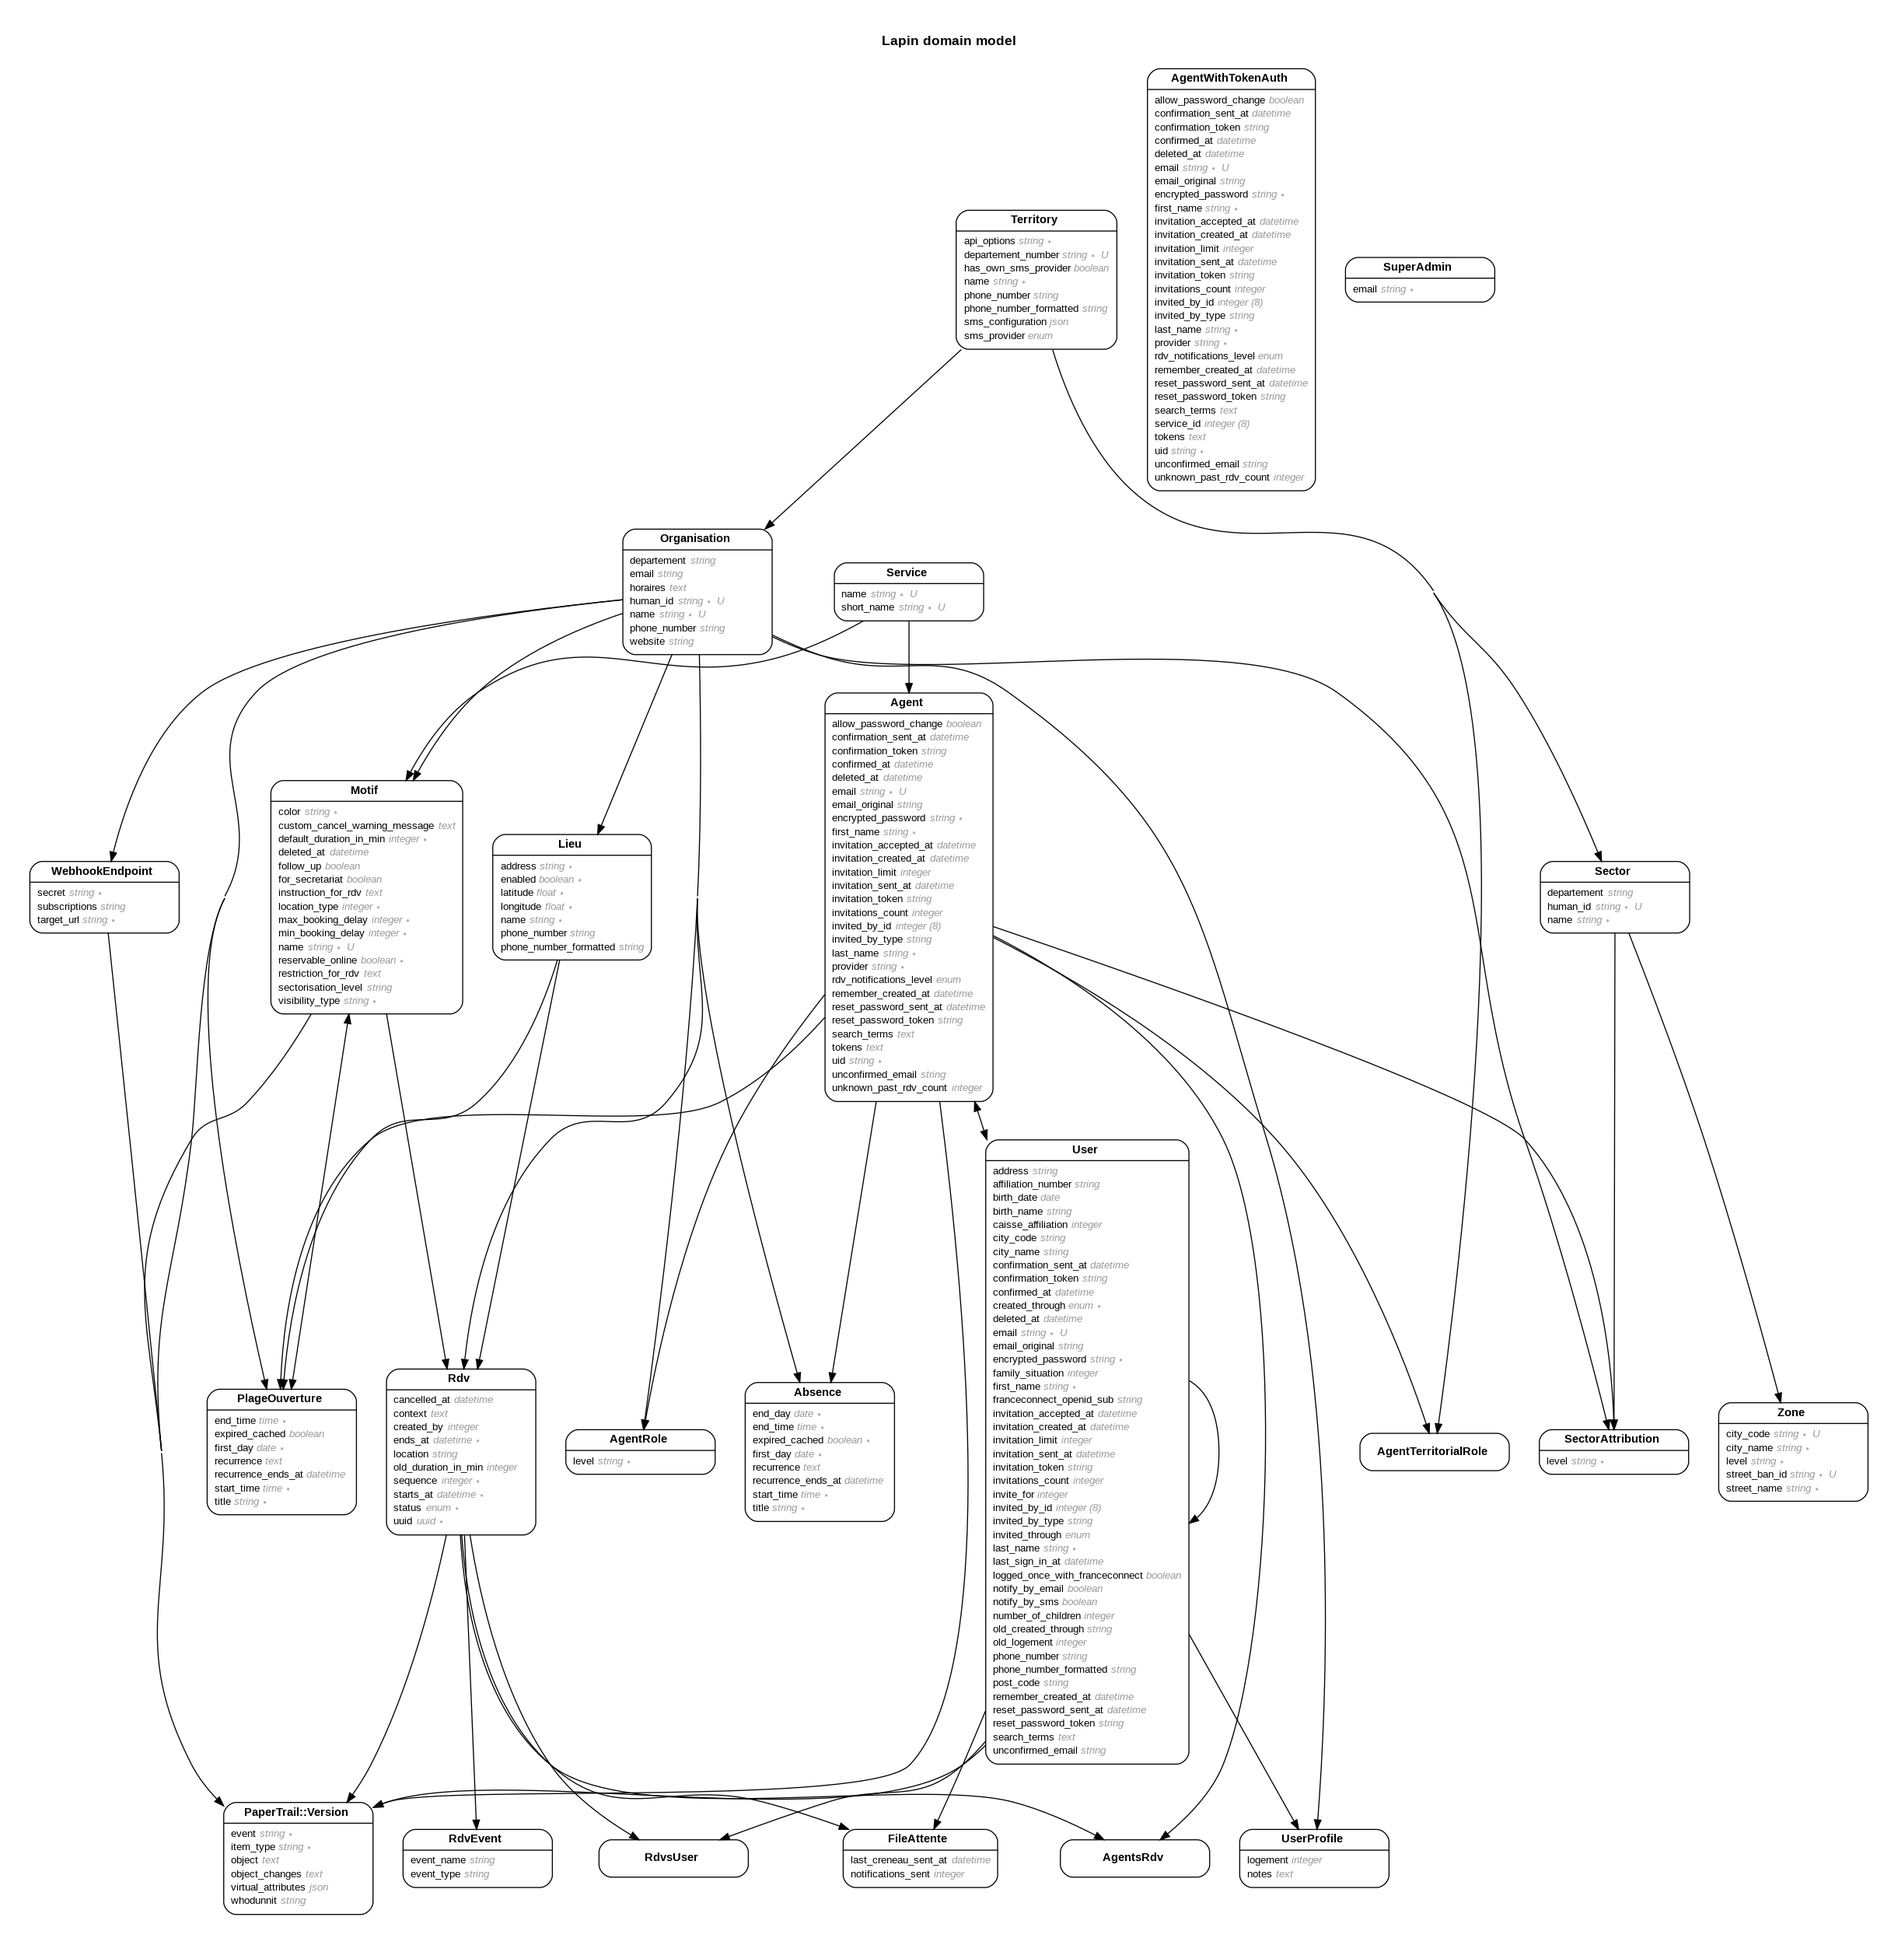
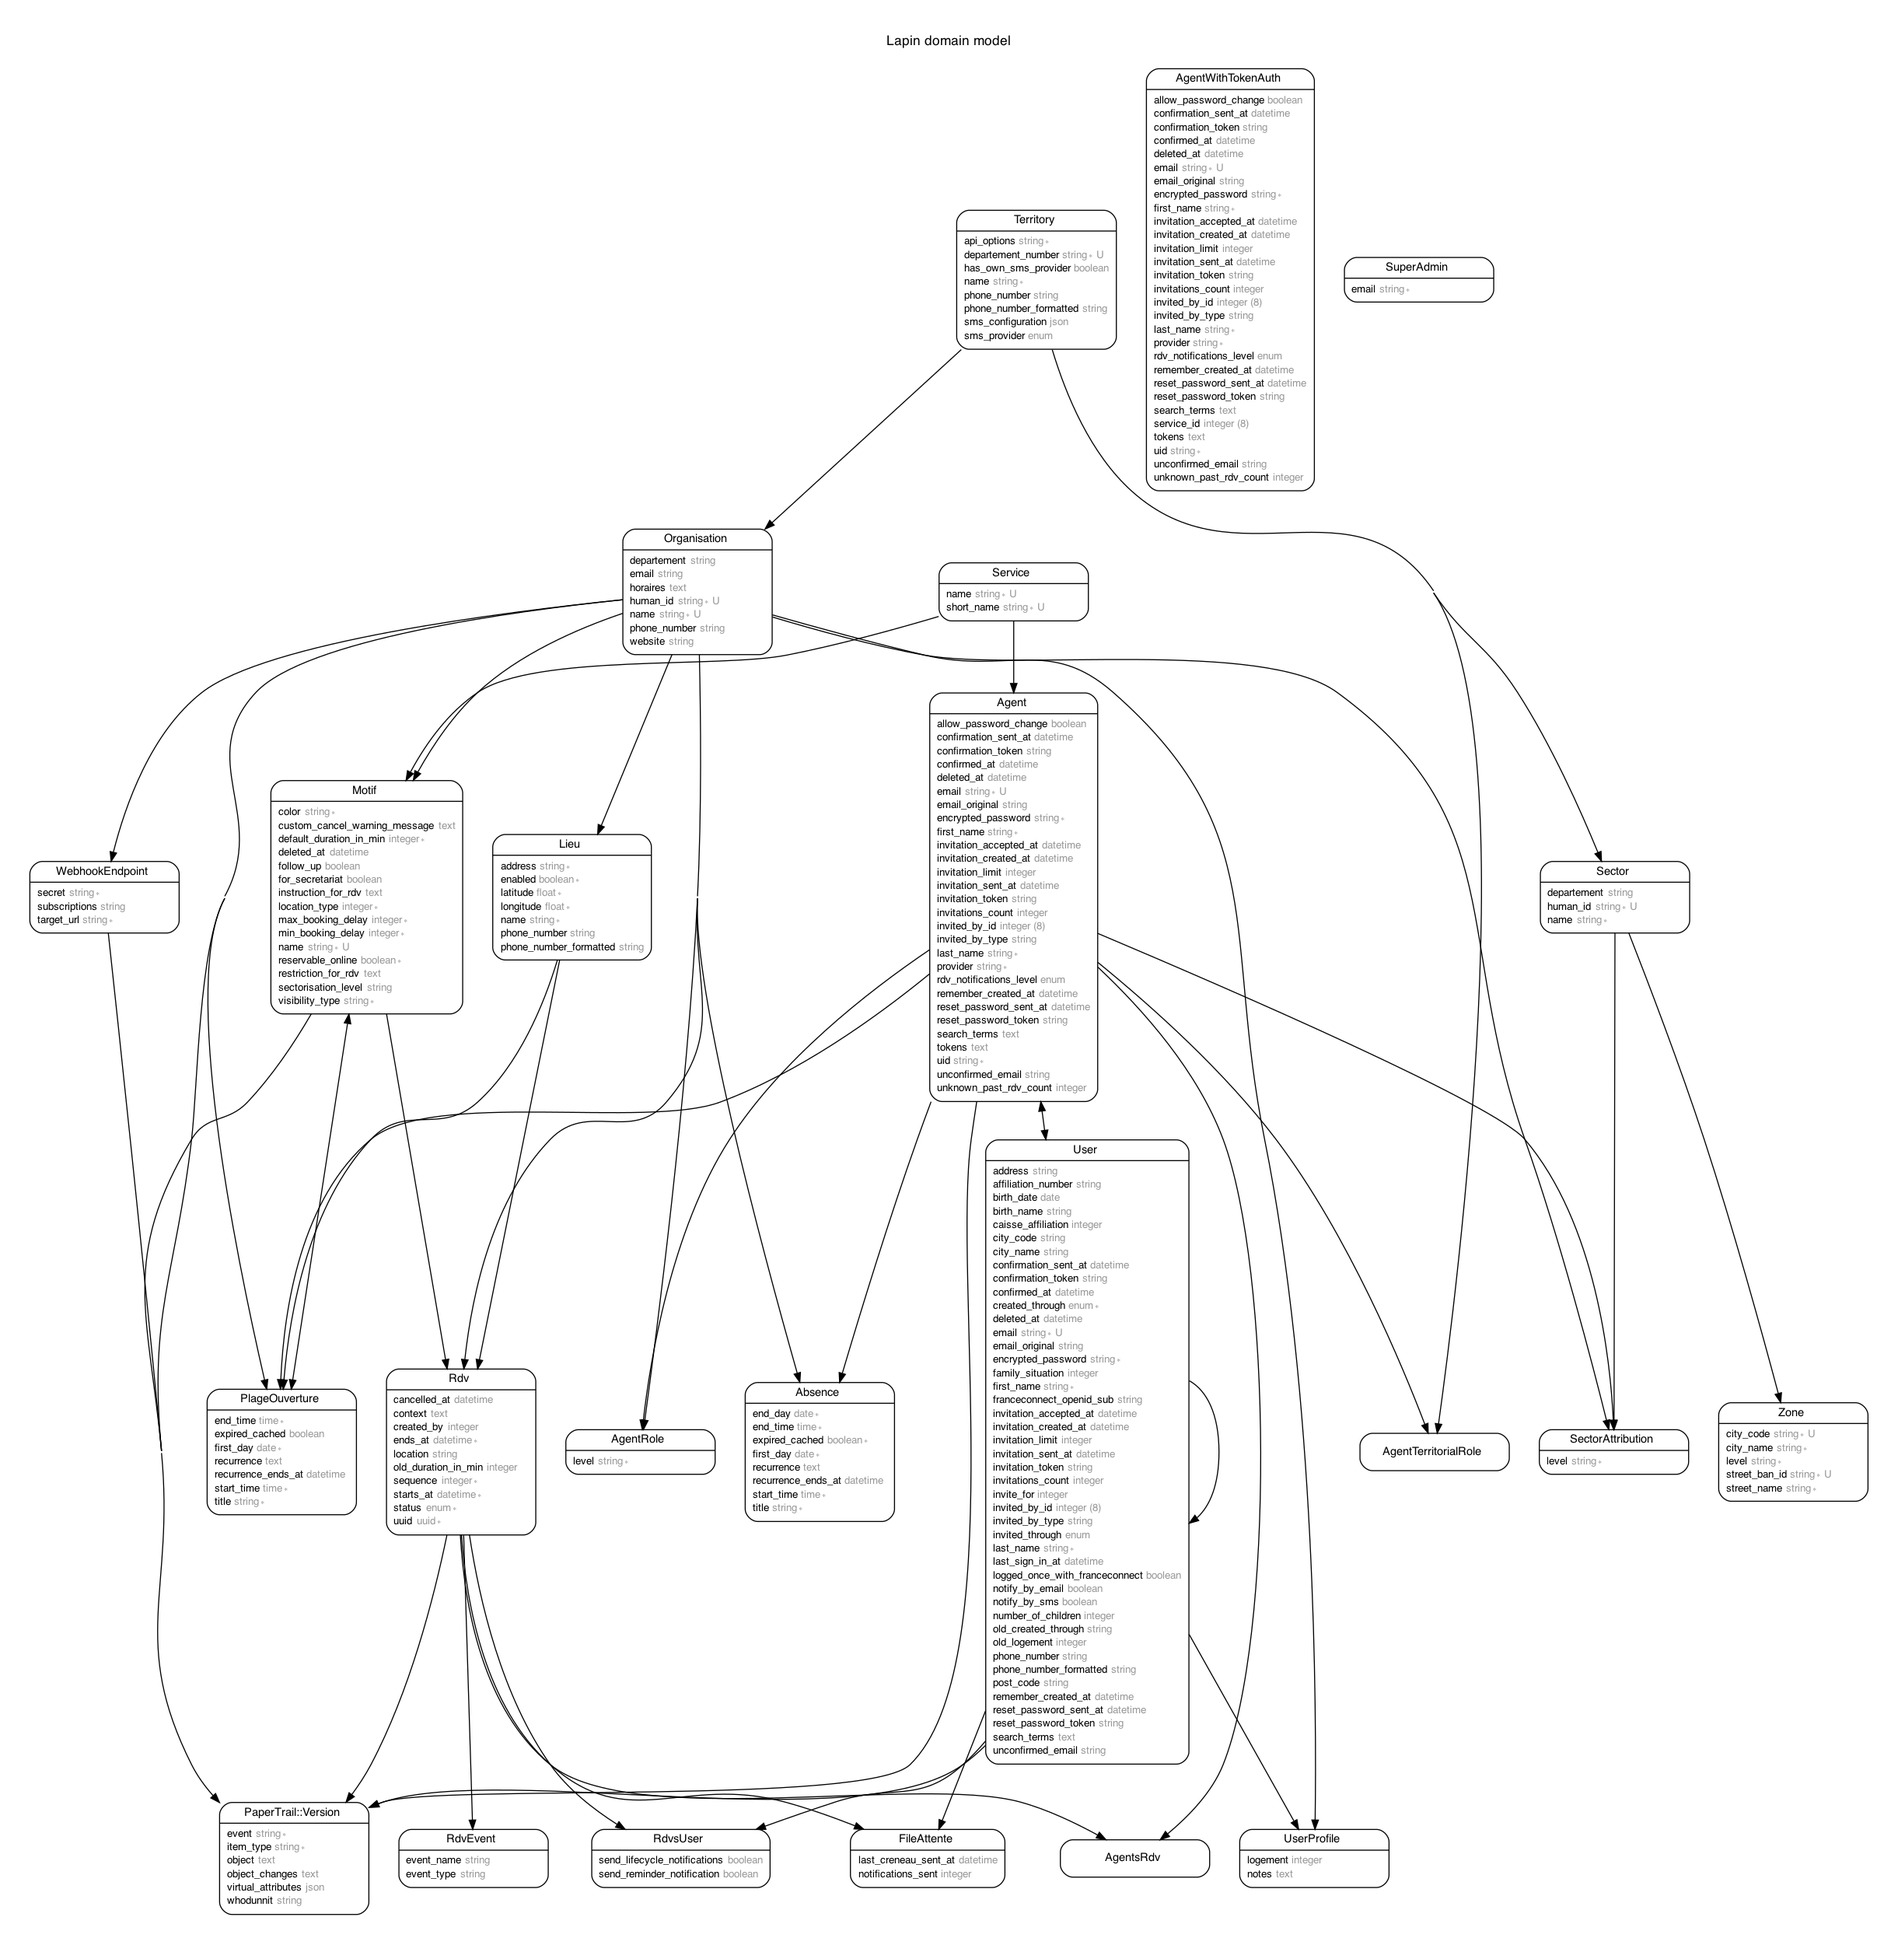
Add notification flags to RdvsUsers

diff --git a/db/migrate/20211216141613_add_rdvs_users_notifications_flags.rb b/db/migrate/20211216141613_add_rdvs_users_notifications_flags.rb
@@ -1,0 +1,23 @@
+# frozen_string_literal: true
+
+class AddRdvsUsersNotificationsFlags < ActiveRecord::Migration[6.0]
+  def change
+    add_column :rdvs_users, :send_lifecycle_notifications, :boolean
+    add_column :rdvs_users, :send_reminder_notification, :boolean
+
+    up_only do
+      notified_motifs = Motif.where(visibility_type: "visible_and_notified")
+      # rubocop:disable Rails/SkipsModelValidations
+      RdvsUser.joins(:rdv)
+        .where(rdvs: { motif_id: notified_motifs })
+        .update_all(send_lifecycle_notifications: true, send_reminder_notification: true)
+      RdvsUser.joins(:rdv)
+        .where.not(rdvs: { motif_id: notified_motifs })
+        .update_all(send_lifecycle_notifications: false, send_reminder_notification: false)
+      # rubocop:enable Rails/SkipsModelValidations
+    end
+
+    change_column_null :rdvs_users, :send_lifecycle_notifications, false
+    change_column_null :rdvs_users, :send_reminder_notification, false
+  end
+end

diff --git a/db/schema.rb b/db/schema.rb
@@ -10,7 +10,7 @@
 #
 # It's strongly recommended that you check this file into your version control system.
 
-ActiveRecord::Schema.define(version: 2021_12_13_105723) do
+ActiveRecord::Schema.define(version: 2021_12_16_141613) do
 
   # These are extensions that must be enabled in order to support this database
   enable_extension "plpgsql"
@@ -344,6 +344,8 @@ ActiveRecord::Schema.define(version: 2021_12_13_105723) do
   create_table "rdvs_users", force: :cascade do |t|
     t.bigint "rdv_id"
     t.bigint "user_id"
+    t.boolean "send_lifecycle_notifications", null: false
+    t.boolean "send_reminder_notification", null: false
     t.index ["rdv_id"], name: "index_rdvs_users_on_rdv_id"
     t.index ["user_id"], name: "index_rdvs_users_on_user_id"
   end

diff --git a/db/seeds.rb b/db/seeds.rb
@@ -573,7 +573,7 @@ results = Rdv.insert_all!(rdv_attributes, returning: "id") # [{"id"=>1}, {"id"=>
 rdv_ids = results.flat_map(&:values) # [1, 2, ...]
 agent_rdv_attributes = rdv_ids.map { |id| { agent_id: agent_org_paris_nord_pmi_martine.id, rdv_id: id } }
 AgentsRdv.insert_all!(agent_rdv_attributes)
-rdv_user_attributes = rdv_ids.map { |id| { user_id: user_org_paris_nord_josephine.id, rdv_id: id } }
+rdv_user_attributes = rdv_ids.map { |id| { user_id: user_org_paris_nord_josephine.id, rdv_id: id, send_lifecycle_notifications: true, send_reminder_notification: true } }
 RdvsUser.insert_all!(rdv_user_attributes)
 # rubocop:enable Rails/SkipsModelValidations
 
